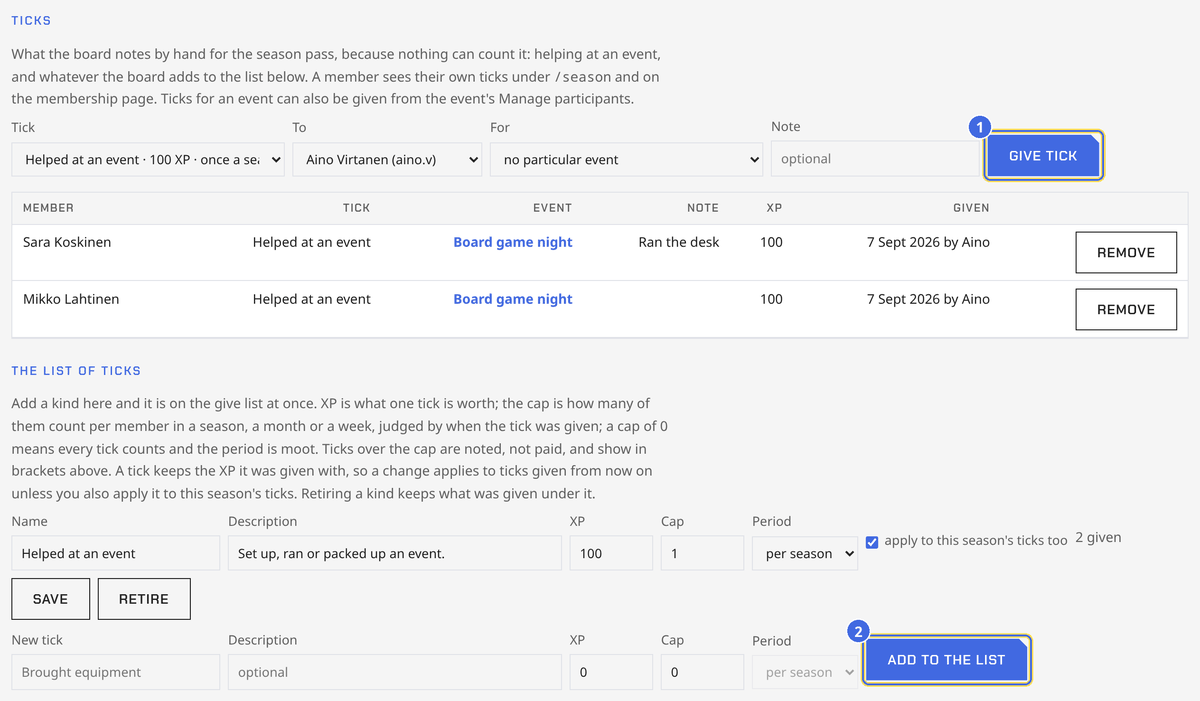
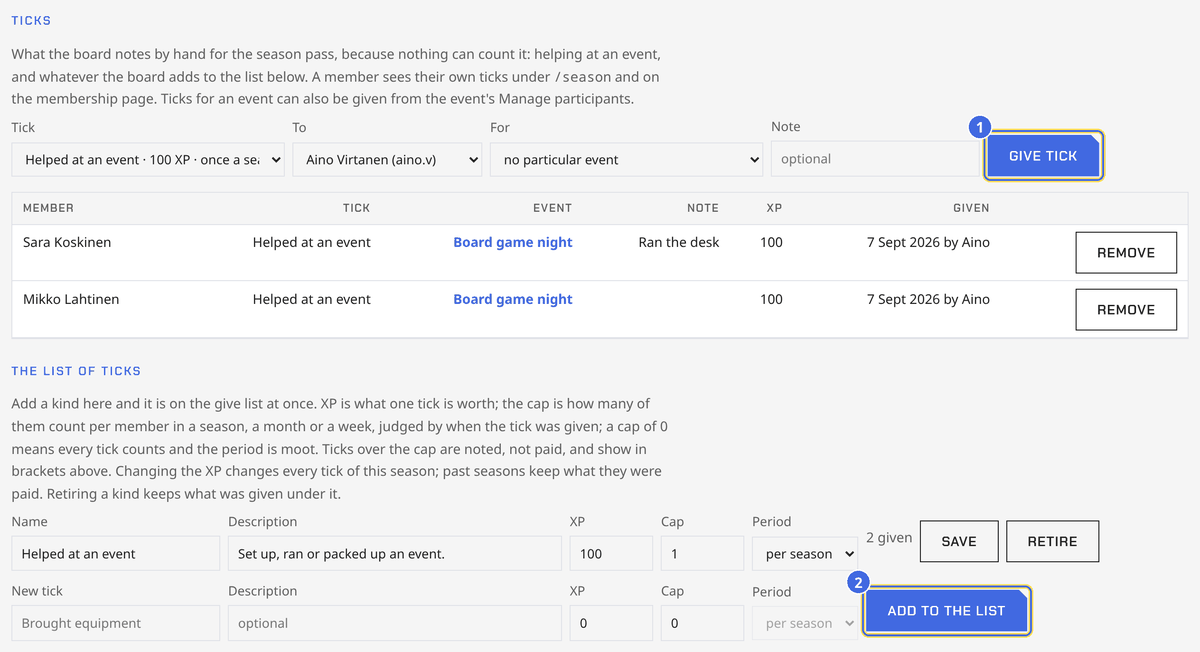
A changed XP always reaches this season's ticks
No checkbox: saving a kind rewrites the current season's ticks of that
kind to the new XP, so a settled number reaches everyone at once. Past
seasons keep what they were paid.

Claude-Session: https://claude.ai/code/session_019m4NkzFyEy3cwdh3cuTmAt

diff --git a/src/pages/board/ticks.ts b/src/pages/board/ticks.ts
@@ -4,6 +4,7 @@ import { checkCsrf } from '../../lib/guard';
 import { requireAnyBoard } from '../../lib/board-access';
 import { RuleError } from '../../lib/db';
 import { addTickKind, giveTick, removeTick, saveTickKind, setTickKindRetired } from '../../lib/ticks';
+import { seasonStartYear } from '../../lib/activity';
 import { postBoardLine } from '../../lib/board-channel';
 
 // Every board write about ticks, dispatched on `action`: give | remove |
@@ -61,10 +62,9 @@ export const POST: APIRoute = async ({ request, redirect, locals }) => {
       case 'kind_save': {
         const id = num('kind_id');
         if (!id) return go('err', 'tick_bad_input');
-        // The season the page showed, so "apply to this season's ticks"
-        // means the one the board was looking at.
-        const season = num('apply_season');
-        await saveTickKind(env.DB, id, kindInput(), season && !Number.isNaN(season) ? season : null);
+        // A changed XP applies to every tick of the current season; past
+        // seasons keep what they were paid.
+        await saveTickKind(env.DB, id, kindInput(), seasonStartYear(now));
         return go('ok', 'kind_saved');
       }
       case 'kind_retire':

diff --git a/src/lib/ticks.ts b/src/lib/ticks.ts
@@ -142,9 +142,10 @@ export async function addTickKind(db: D1Database, input: TickKindInput, by: stri
   return (await getTickKind(db, id))!;
 }
 
-// Saving a kind changes what ticks given from now on are worth; with
-// `applySeason` the ticks of that season already given under it follow,
-// for when the numbers are settled after the ticking began.
+// Saving a kind changes what a tick is worth; with `applySeason` the
+// ticks of that season already given under it follow (the route always
+// passes the current season), while other seasons keep what they were
+// paid.
 export async function saveTickKind(db: D1Database, id: number, input: TickKindInput, applySeason: number | null = null): Promise<TickKind> {
   const { name, description, xp, season_cap, period } = validKind(input);
   if (!(await getTickKind(db, id))) throw new RuleError('missing', 'No such tick.');

diff --git a/src/styles/site.css b/src/styles/site.css
@@ -4063,13 +4063,6 @@ details.admin-panel[open] > summary {
   opacity: 0.55;
 }
 
-.kind-list .participant-row label.check {
-  display: flex;
-  align-items: center;
-  gap: 0.4rem;
-  font-size: 0.85rem;
-  color: var(--muted);
-}
 
 .stats-table {
   min-width: 0;

diff --git a/docs/OPERATIONS.md b/docs/OPERATIONS.md
@@ -873,10 +873,10 @@ season's ticks never count in this one. A kind carries what a tick is
 worth (`xp`), how many of them count per member (`season_cap`, 0 = every
 one) and the period that cap counts in (`period`: season, month or
 week, judged by when the tick was given, Helsinki time); a tick keeps
-the XP it was given with (`ticks.xp`), so a changed kind moves nothing
-in past seasons, and saving a kind with "apply to this season's ticks"
-brings the current season's along for when the numbers land after the
-ticking began. The counting is on the pass side: giving is never refused
+the XP it was given with (`ticks.xp`), and saving a kind rewrites the
+current season's ticks of that kind to the new XP, so a changed number
+reaches everyone this season while past seasons keep what they were
+paid. The counting is on the pass side: giving is never refused
 for a cap; `applyCaps` walks a member's ticks oldest first, groups them
 by kind and period bucket (`periodKey`), and flags the ones past the cap
 as noted, not paid; `tickXp` adds the rest up, and the season page shows

diff --git a/docs/BOARD-GUIDE.md b/docs/BOARD-GUIDE.md
@@ -419,10 +419,10 @@ puts it on the page and on Discord.
   kind says what a tick is worth in XP and how many count per member in
   a season, a month or a week (0 for every one), judged by when the tick
   was given: give as many as you like, the ones over the cap are noted
-  and shown in brackets, not paid. A tick keeps the XP it was given
-  with, so when the numbers change, tick "apply to this season's ticks
-  too" to bring this season along. Members see their own ticks, and what
-  they add up to, under `/season` and on the membership page.
+  and shown in brackets, not paid. Changing a kind's XP changes every
+  tick of this season; past seasons keep what they were paid. Members
+  see their own ticks, and what they add up to, under `/season` and on
+  the membership page.
 
 | | |
 |---|---|
